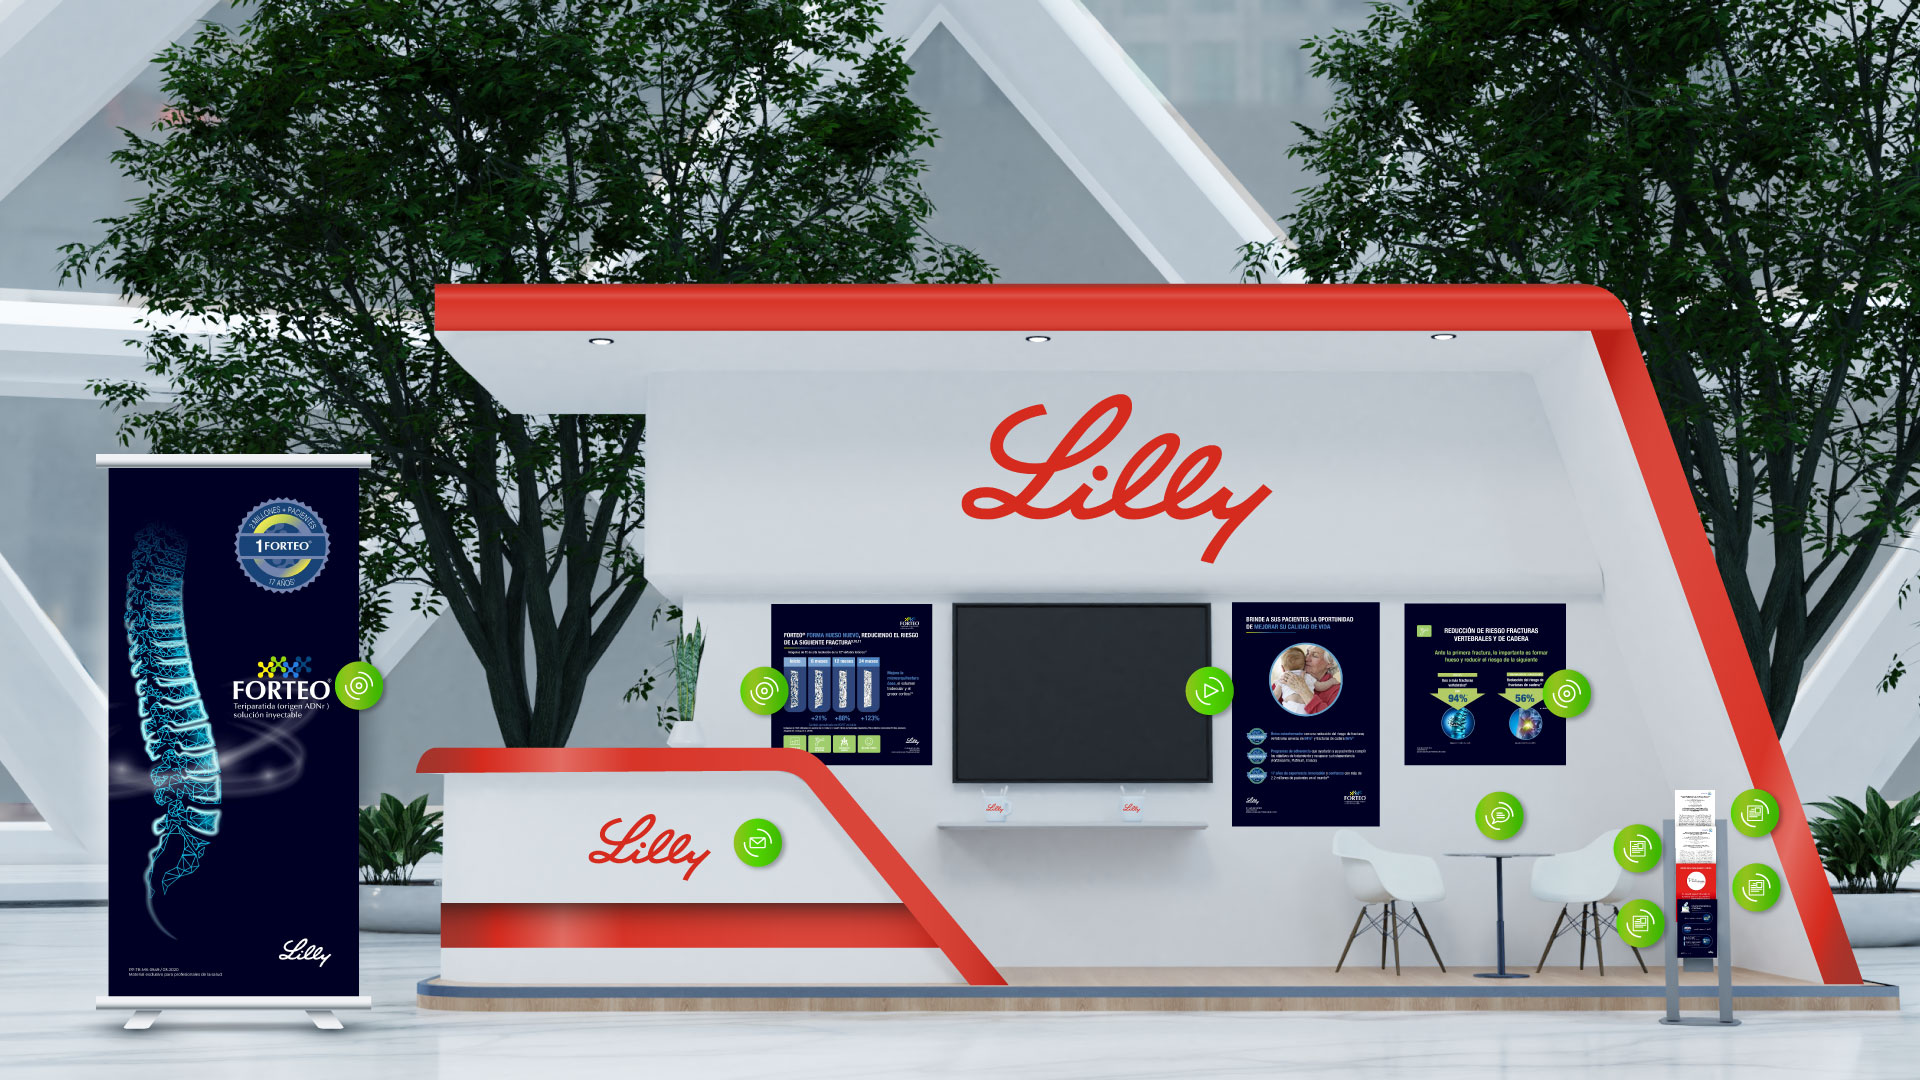
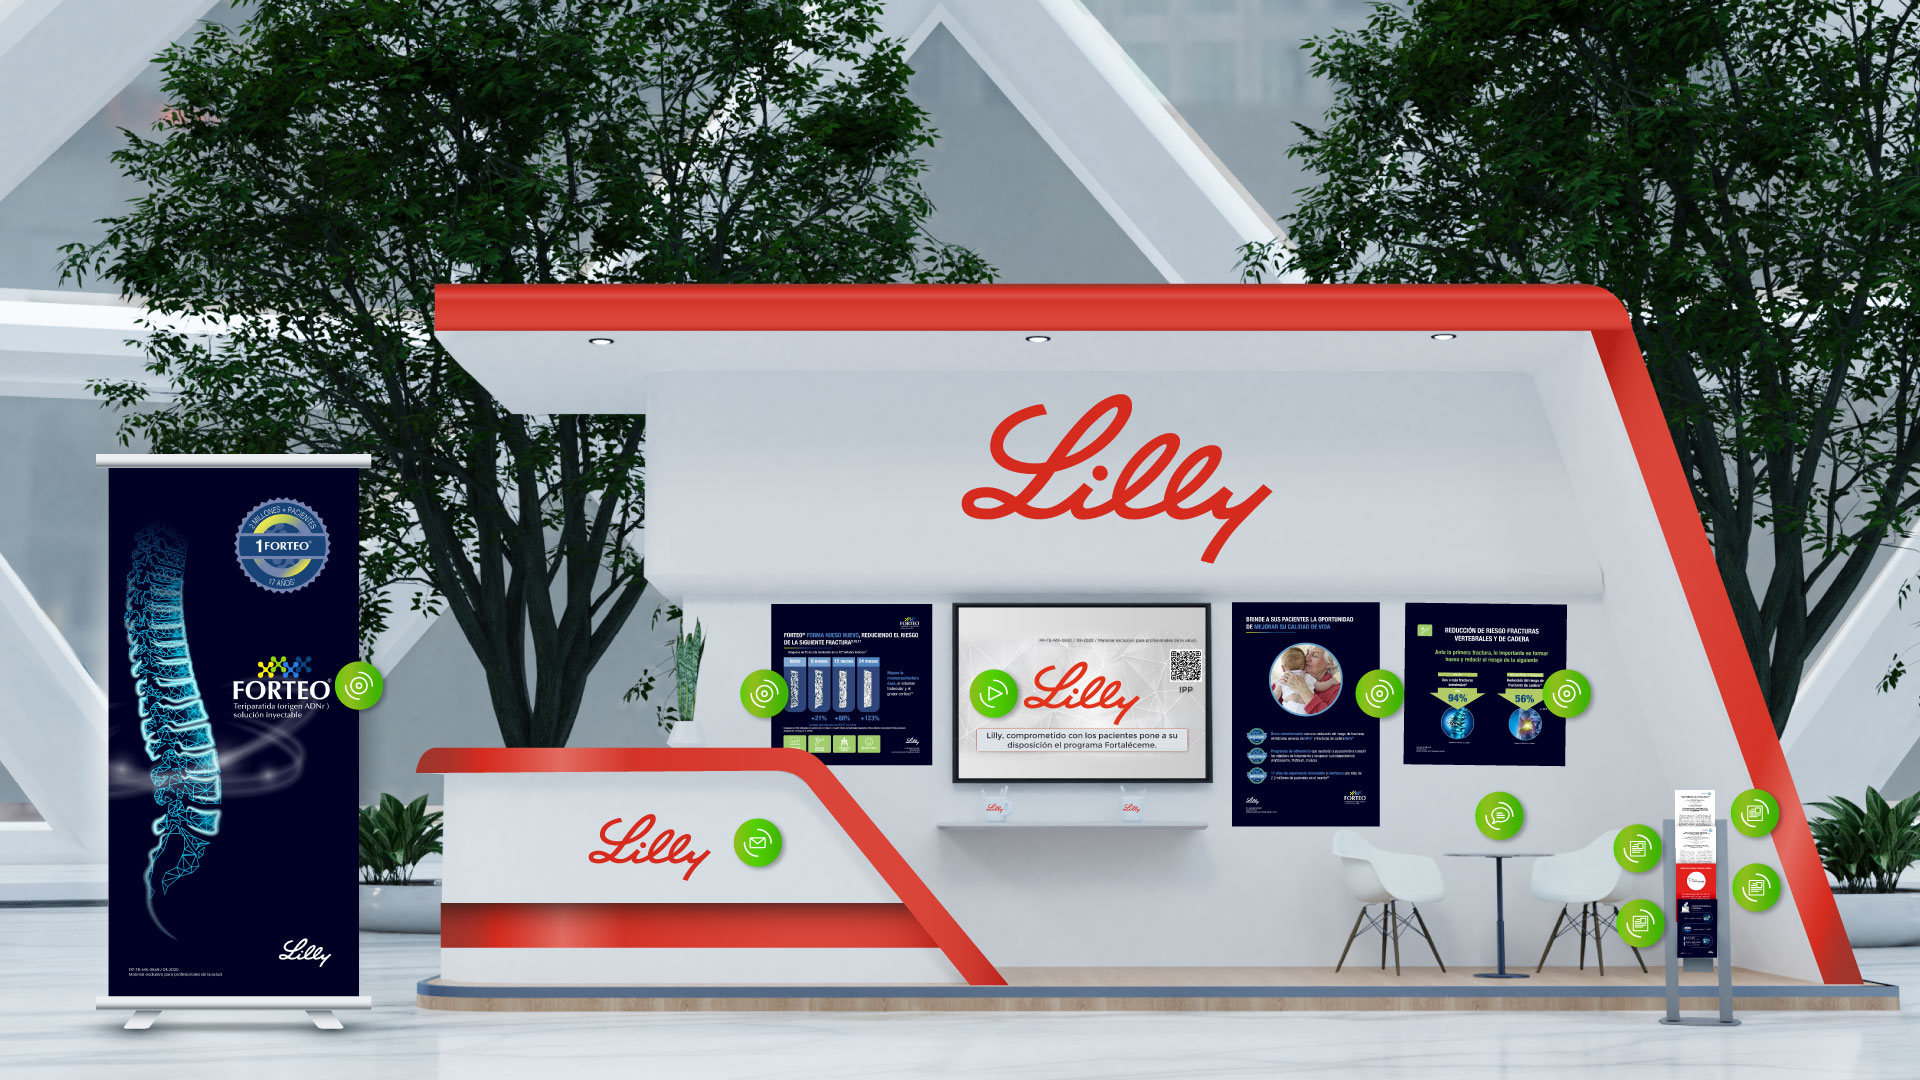
video-lilly

Changed region(s): [[0.5, 0.55, 0.6562, 0.7333], [0.6875, 0.5806, 0.8125, 0.6722], [0.375, 0.6111, 0.4062, 0.6722]]

diff --git a/pages/congreso-virtual/lilly.vue b/pages/congreso-virtual/lilly.vue
@@ -32,7 +32,7 @@
                         <a @click="$bvModal.show('seis')" class="rim-hotspot" style="width:4.9%; height:5.4%; left:75.5%; top:73.6%; position:absolute; cursor:pointer; display:block; z-index:5; overflow:hidden;"></a>
                         <a @click="$bvModal.show('siete')" class="rim-hotspot" style="width:8.3%; height:14.2%; left:73.8%; top:56.3%; position:absolute; cursor:pointer; display:block; z-index:5; overflow:hidden;"></a>
                         <a @click="$bvModal.show('cinco')" class="rim-hotspot" style="width:7.4%; height:20.3%; left:64.4%; top:56.1%; position:absolute; cursor:pointer; display:block; z-index:5; overflow:hidden;"></a>
-                        <a @click="$bvModal.show('cuatro')" class="rim-hotspot" style="width:14.1%; height:19.3%; left:49.3%; top:56.3%; position:absolute; cursor:pointer; display:block; z-index:5; overflow:hidden;"></a>
+                        <a @click="$bvModal.show('video')" class="rim-hotspot" style="width:14.1%; height:19.3%; left:49.3%; top:56.3%; position:absolute; cursor:pointer; display:block; z-index:5; overflow:hidden;"></a>
                         <a @click="$bvModal.show('dos')" class="rim-hotspot" style="width:9.7%; height:13.7%; left:38.7%; top:55.9%; position:absolute; cursor:pointer; display:block; z-index:5; overflow:hidden;"></a>
                         <a @click="$bvModal.show('tres')" class="rim-hotspot" style="width:21.8%; height:22.1%; left:22.7%; top:70.8%; position:absolute; cursor:pointer; display:block; z-index:5; overflow:hidden;"></a>
                         <a @click="$bvModal.show('uno')"  class="rim-hotspot" style="width:14.3%; height:53.1%; left:5.2%; top:42.1%; position:absolute; cursor:pointer; display:block; z-index:5; overflow:hidden;"></a>
@@ -79,6 +79,12 @@
         <b-modal  id="once" hide-footer >
             <div class="d-block text-center">
                  <img src="~/assets/images/lilly/REPISA-3.jpg"  width="100%;">
+            </div>
+        </b-modal>
+
+        <b-modal  id="video" hide-footer size="xl" >
+            <div class="d-block text-center">
+                <iframe src="https://player.vimeo.com/video/470207925?autoplay=1" width="100%" height="361" frameborder="0" allow="autoplay; fullscreen" allowfullscreen></iframe>
             </div>
         </b-modal>
 
@@ -151,7 +157,7 @@
 <script>
   export default {
     name: "contacto",
-    middleware: ['authenticated'],
+   /* middleware: ['authenticated'],*/
 
     head() {
         return {
